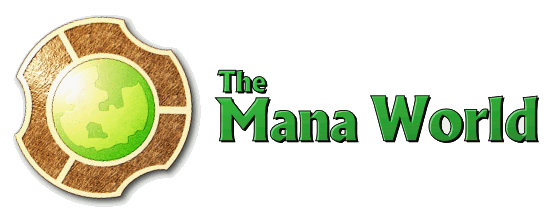
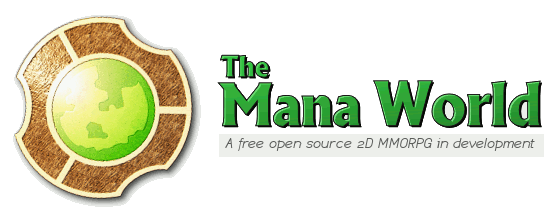
Updated header and added in cutenews for dynamic news display.

Changed region(s): [[0.3723, 0.2571, 0.9927, 0.7143]]

diff --git a/default.css b/default.css
@@ -121,7 +121,16 @@ h1 {
     font-weight: bold;
     color: #3c3c3c;
     border-bottom: 1px solid #9f9894;
+    /*
+    border-right: 1px solid #9f9894;
+    border-top: 1px solid #f2e6df;
+    border-left: 1px solid #f2e6df;
+    */
     font-size: 11pt;
+    /*
+    background-color: #d1c7c0;
+    padding: 2px 5px 2px 5px;
+    */
 }
 
 #sidebar {
@@ -206,7 +215,7 @@ h1 {
 
 #sidebar .banners {
     text-align: center;
-    padding: 7px 7px 2px 7px;
+    padding: 13px 7px 8px 7px;
 }
 
 #sidebar .banners img {
@@ -296,13 +305,13 @@ h1 {
     font-style: italic;
     float: right;
     color: #57565c;
+    font-size: 8pt;
 }
 
 .news_author {
     font-size: 8pt;
-    font-weight: bold;
     color: #57565c;
-    display: none;
+    border-bottom: 1px solid #9f9894;
 }
 
 .releases {

diff --git a/index.php b/index.php
@@ -1,63 +1,9 @@
 <?php
-  include("includes/common.php");
+  include('includes/common.php');
   placeHeader("News");
-?>
-               <div class="news">
-                <div class="news_date">08 Apr 2005</div>
-                <h3>Bugfix bugfix release 0.0.11.2</h3>
-                <div class="news_body">
-                 <p>The 0.0.11.1 release was too soon, an often occuring crash on exit and sometimes on startup crept in. That's why we've now released 0.0.11.2 which fixes this problem. We've also made the damage indicators float upwards.</p>
-                </div>
-                <div class="news_author">Bjørn Lindeijer</div>
-               </div>
 
-               <div class="news">
-                <div class="news_date">07 Apr 2005</div>
-                <h3>The Mana World 0.0.11.1 bugfix release</h3>
-                <div class="news_body">
-                 <p>Quite a few annoying bugs that were relatively easy to fix were discovered right after the release of 0.0.11. That's why we've decided not to wait until 0.0.12 and instead release a 0.0.11.1 bugfix release just a few days from 0.0.11. See the changelog for details.</p>
-                </div>
-                <div class="news_author">Bjørn Lindeijer</div>
-               </div>
+  $number = 6;
+  include('cutenews/show_news.php');
 
-               <div class="news">
-                <div class="news_date">03 Apr 2005</div>
-                <h3>The Mana World 0.0.11 released</h3>
-                <div class="news_body">
-                 <p>This release marks a long due update to the world map, adding some more space to walk around and two new kinds monsters to fight with. Other than that highlights include smoother walking and support for walking diagonally and with the mouse, the upgrade to Guichan 0.3.0 and several stability fixes. See the changelog for details.</p>
-
-                 <p>Meanwhile we have started development of our own server. It's still in very early stages but we're hoping to make good progress with that in coming months. Now could be the right time to check if you can help in its development.</p>
-
-                 <p>Finally a note to those who have existing config files (for Linux users this is ~/.manaworld/config.xml): for the moment our server host has changed from animesites.de to www.lindeijer.nl!</p>
-                </div>
-                <div class="news_author">Bjørn Lindeijer</div>
-               </div>
-
-               <div class="news">
-                <div class="news_date">29 Mar 2005</div>
-                <h3>New Domain</h3>
-                <div class="news_body">
-                 <p>Thanks to the contributions of our fans we finally managed to buy a domain for our project. Feel free to update your bookmarks with:</p>
-
-                 <p><a href="http://themanaworld.org/">http://themanaworld.org/</a></p>
-
-                 <p>The Mana World Development team would like to thank everyone who's contributing to this project and who's helping to make it the best MMORPG ever! laughing</p>
-                </div>
-                <div class="news_author">ElvenProgrammer</div>
-               </div>
-
-               <div class="news">
-                <div class="news_date">05 Mar 2005</div>
-                <h3>0.0.10 Released!</h3>
-                <div class="news_body">
-                 <p>Don't let the numbering fool you, it's still a quality release. Sorry for all the chaps that were waiting for 0.1.0, but we're still kinda far from that release.. We're now going to maintain our almost monthly release schedule so you all can make lame jokes about "that time of the month".. wink</p>
-
-                 <p>For those who will want to see the 0.1.0 someday soon, please help us. Once again our greatest need at the moment is the need for artists. So if you can draw (I'm counting stick figures as drawing so don't be afraid, we won't bite you) please contact us. Join the forums and come and greet us on the IRC channel (#manaworld on freenode).</p>
-
-                 <p>Well then, I now have to leave you waiting for the 0.0.11 release (or you can always just use the CVS to get our latest results without waiting for us to package a release version for you).</p>
-                </div>
-                <div class="news_author">Rotonen</div>
-               </div>
-<?php
   placeFooter();
 ?>

diff --git a/includes/common.php b/includes/common.php
@@ -72,17 +72,22 @@ function placeHeader($page_title)
           </div>
          </div>
 
+         <!--
          <div class="section_topleft">
           <div class="section_bottomleft">
            <div class="section_topright">
             <div class="section_bottomright">
              <div class="section">
               <h3>Server Status</h3>
+              <p style="font-size: 7pt;">
+              animesites.de
+              </p>
              </div>
             </div>
            </div>
           </div>
          </div>
+         -->
 
          <div class="section_topleft">
           <div class="section_bottomleft">
